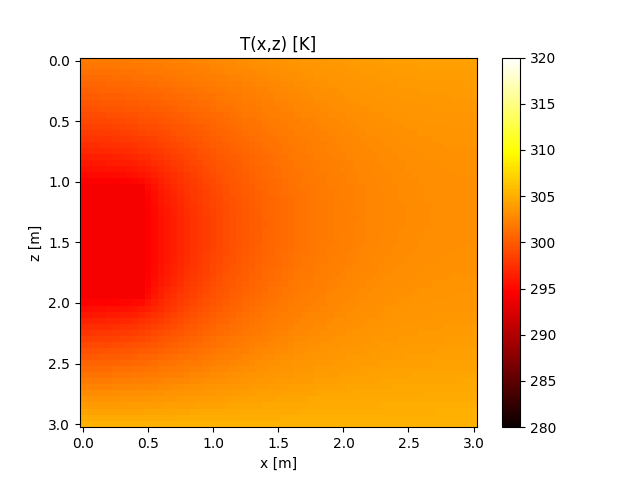
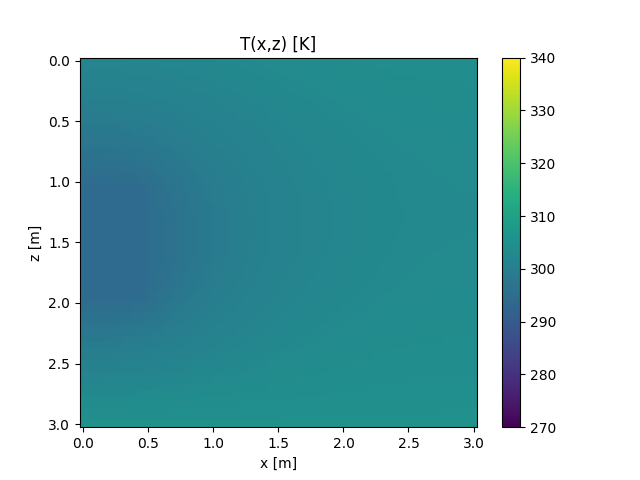
generalization des fonctions
je tente de modifier le code pour n'avoir besoin que d'un input avec le nom de la planete pr tt le code

diff --git a/methode_matrice_2D_temporelle.py b/methode_matrice_2D_temporelle.py
@@ -13,15 +13,16 @@ import time
 import yaml
 from tqdm import tqdm
 
-def methode_matrice_2D_temporelle (planete, p, l_x, l_z, Lx, Lz, d ):
+def methode_matrice_2D_temporelle (planets_constants, planete, p, l_x, l_z, Lx, Lz, d ):
+
     # Définition des constantes
-    C_p = planete['C_p']
-    K = planete['K']
-    rho = planete['rho']
-    tau = planete['tau']
-    Q_0 = planete['Q_0']
-    T_s = planete['T_s']
-    d_pS = planete['d_pS']
+    C_p = planets_constants['C_p']
+    K = planets_constants['K']
+    rho = planets_constants['rho']
+    tau = planets_constants['tau']
+    Q_0 = planets_constants['Q_0']
+    T_s = planets_constants['T_s']
+    d_pS = planets_constants['d_pS']
 
     alpha=C_p*rho/K
 
@@ -36,12 +37,12 @@ def methode_matrice_2D_temporelle (planete, p, l_x, l_z, Lx, Lz, d ):
     abri = True # Est-ce qu'il y a un abri
 
     # Calcul de la distribution initiale
-    U0 = distributionInitiale(Nx, Nz, Lx, Lz, l_x, l_z, p, d, temps=0, abri=abri)
+    U0 = distributionInitiale(planete, Nx, Nz, Lx, Lz, l_x, l_z, p, d, temps=0, abri=abri)
     
     # Définition des matrices A, M et b0
 
-    A, M = methode_matrice_2D_A(planete, p, l_x, l_z, Lx, Lz, d, abri=abri)
-    b0 = methode_matrice_2D_b(planete, p, l_x, l_z, Lx, Lz, temps=0, d=d, abri=abri)
+    A, M = methode_matrice_2D_A(planets_constants[planete], p, l_x, l_z, Lx, Lz, d, abri=abri)
+    b0 = methode_matrice_2D_b(planets_constants[planete], p, l_x, l_z, Lx, Lz, temps=0, d=d, abri=abri)
 
     # Définition du pas de temps
     dt = np.min([alpha*d**2/2, tau/5 ])
@@ -139,15 +140,15 @@ CALCUL TERMINÉ : ANIMATION SAUVEGARDÉE
 
 # methode_matrice_2D_temporelle(planets_constants['earth'],  p, l_x, l_z, Lx, Lz, d)
 
-with open('constants.yaml') as f:
-     planets_constants = yaml.safe_load(f)
-
 p = 1   # Profondeur de l'abris [m]
 l_x = 1 # Largeur de l'abris en x [m]
 l_z = 1 # Hauteur de l'abris en z [m]
 Lx = 3 # Largeur du domaine [m]
 Lz = 3 # Hauteur du domaine [m]
 d = 0.05  # Pas de discrétisation [m]
+planete = 'earth'
 
+with open('constants.yaml') as f:
+    planetConstants = yaml.safe_load(f)
 
-methode_matrice_2D_temporelle(planets_constants['earth'],  p, l_x, l_z, Lx, Lz, d)
+methode_matrice_2D_temporelle(planetConstants[planete], planete, p, l_x, l_z, Lx, Lz, d)

diff --git a/distributionInitiale.py b/distributionInitiale.py
@@ -55,7 +55,7 @@ def distributionInitiale(Nx, Nz, Lx, Lz, Ts, lx, lz, p):
 '''
 
 #--------------------------------------------------------------------------- Définition de la distribution initiale independante du temps
-def distributionInitiale(Nx, Nz, Lx, Lz, lx, lz, p, d, temps, abri):
+def distributionInitiale(planete, Nx, Nz, Lx, Lz, lx, lz, p, d, temps, abri):
     # Création d'une grille Nx par Nz
     x = np.linspace(0, Lx, Nx)
     z = np.linspace(0, Lz, Nz)
@@ -64,8 +64,8 @@ def distributionInitiale(Nx, Nz, Lx, Lz, lx, lz, p, d, temps, abri):
     with open('constants.yaml') as f:
         planets_constants = yaml.safe_load(f)
 
-    A, M = methode_matrice_2D_A(planets_constants['earth'], p=p, l_x=lx, l_z=lz, Lx=Lx, Lz=Lz, d=d, abri=abri)
-    b = methode_matrice_2D_b(planets_constants['earth'], p=p, l_x=lx, l_z=lz, Lx=Lx, Lz=Lz, temps = temps, d=d, abri=abri)
+    A, M = methode_matrice_2D_A(planets_constants[planete], p=p, l_x=lx, l_z=lz, Lx=Lx, Lz=Lz, d=d, abri=abri)
+    b = methode_matrice_2D_b(planets_constants[planete], p=p, l_x=lx, l_z=lz, Lx=Lx, Lz=Lz, temps = temps, d=d, abri=abri)
     
     # Résolution du système d'équations
     T=np.zeros((Nx*Nz,1),dtype=np.double)
@@ -86,11 +86,12 @@ def distributionInitiale(Nx, Nz, Lx, Lz, lx, lz, p, d, temps, abri):
 
 #----------------------------------------------------------------------------------- Affichage des données
 '''
+planete = 'earth'
 p = 1   # Profondeur de l'abris [m]
 lx = 1 # Largeur de l'abris en x [m]
 lz = 1 # Hauteur de l'abris en z [m]
-Lx = 10 # Largeur du domaine [m]
-Lz = 10 # Hauteur du domaine [m]
+Lx = 3 # Largeur du domaine [m]
+Lz = 3 # Hauteur du domaine [m]
 d = 0.05  # Pas de discrétisation [m]
 Nx=int(np.rint(Lx/d+1)) # Nombre de nœuds le long de X
 Nz=int(np.rint(Lz/d+1)) # Nombre de nœuds le long de Z
@@ -99,5 +100,6 @@ z = np.linspace(0, Lz, Nz)
 temps=0
 abri=True
 
-init_Col = distributionInitiale(Nx, Nz, Lx, Lz, lx, lz, p, d, temps, abri)
+init_Col = distributionInitiale(planete, Nx, Nz, Lx, Lz, lx, lz, p, d, temps, abri)
+
 '''

diff --git a/methode_matrice_2D.py b/methode_matrice_2D.py
@@ -9,16 +9,16 @@ import yaml
 
 ################ EVALUATION DE LA MATRICE A #################
 
-def methode_matrice_2D_A(planete, p, l_x, l_z, Lx, Lz, d , sparse = True, abri=True):
+def methode_matrice_2D_A(planets_constants, p, l_x, l_z, Lx, Lz, d , sparse = True, abri=True):
 
     # Récupération des constantes de la planète
-    C_p = planete['C_p']
-    K = planete['K']
-    rho = planete['rho']
-    tau = planete['tau']
-    Q_0 = planete['Q_0']
-    T_s = planete['T_s']
-    d_pS = planete['d_pS']
+    C_p = planets_constants['C_p']
+    K = planets_constants['K']
+    rho = planets_constants['rho']
+    tau = planets_constants['tau']
+    Q_0 = planets_constants['Q_0']
+    T_s = planets_constants['T_s']
+    d_pS = planets_constants['d_pS']
     sigma = 5.67e-8 # (W/(m^2K^4)) Constante de Stefan-Boltzmann
     
     Nx=int(np.rint(Lx/d+1)) # Nombre de nœuds le long de X
@@ -90,16 +90,16 @@ def methode_matrice_2D_A(planete, p, l_x, l_z, Lx, Lz, d , sparse = True, abri=T
 
 ################### EVALUATION DU VECTEUR b ############################
 
-def methode_matrice_2D_b(planete, p, l_x, l_z, Lx, Lz, temps, d, abri=True):
+def methode_matrice_2D_b(planets_constants, p, l_x, l_z, Lx, Lz, temps, d, abri=True):
 
     # Récupération des constantes de la planète
-    C_p = planete['C_p']
-    K = planete['K']
-    rho = planete['rho']
-    tau = planete['tau']
-    Q_0 = planete['Q_0']
-    T_s = planete['T_s']
-    d_pS = planete['d_pS']
+    C_p = planets_constants['C_p']
+    K = planets_constants['K']
+    rho = planets_constants['rho']
+    tau = planets_constants['tau']
+    Q_0 = planets_constants['Q_0']
+    T_s = planets_constants['T_s']
+    d_pS = planets_constants['d_pS']
     sigma = 5.67e-8 # (W/(m^2K^4)) Constante de Stefan-Boltzmann
     
     Nx=int(np.rint(Lx/d+1)) # Nombre de nœuds le long de X
